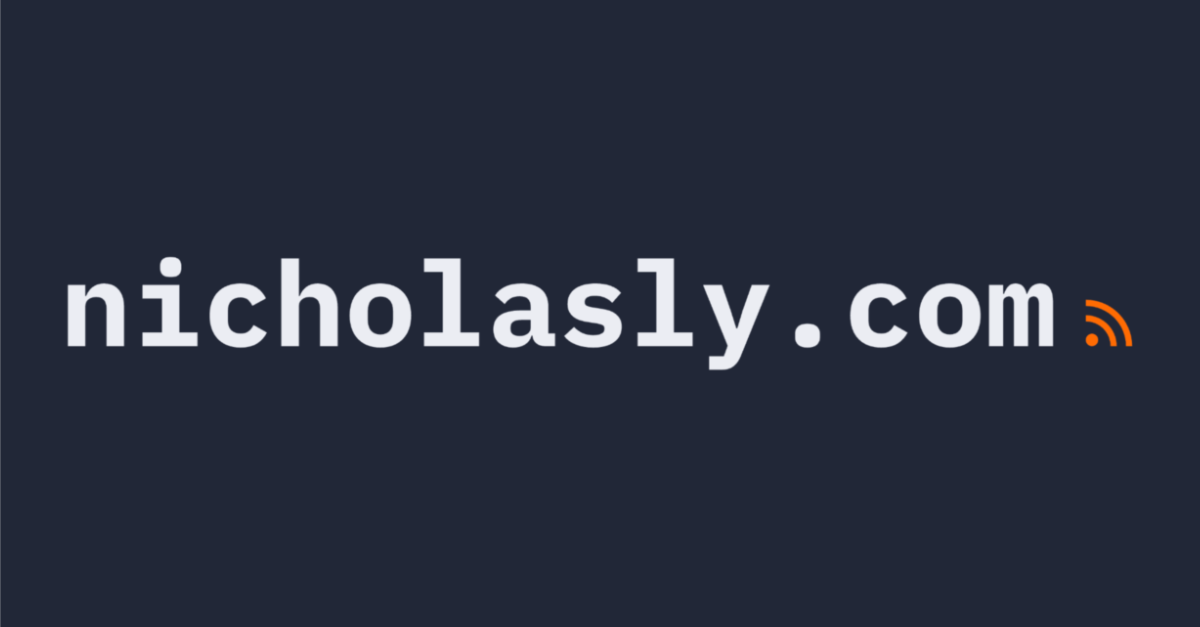
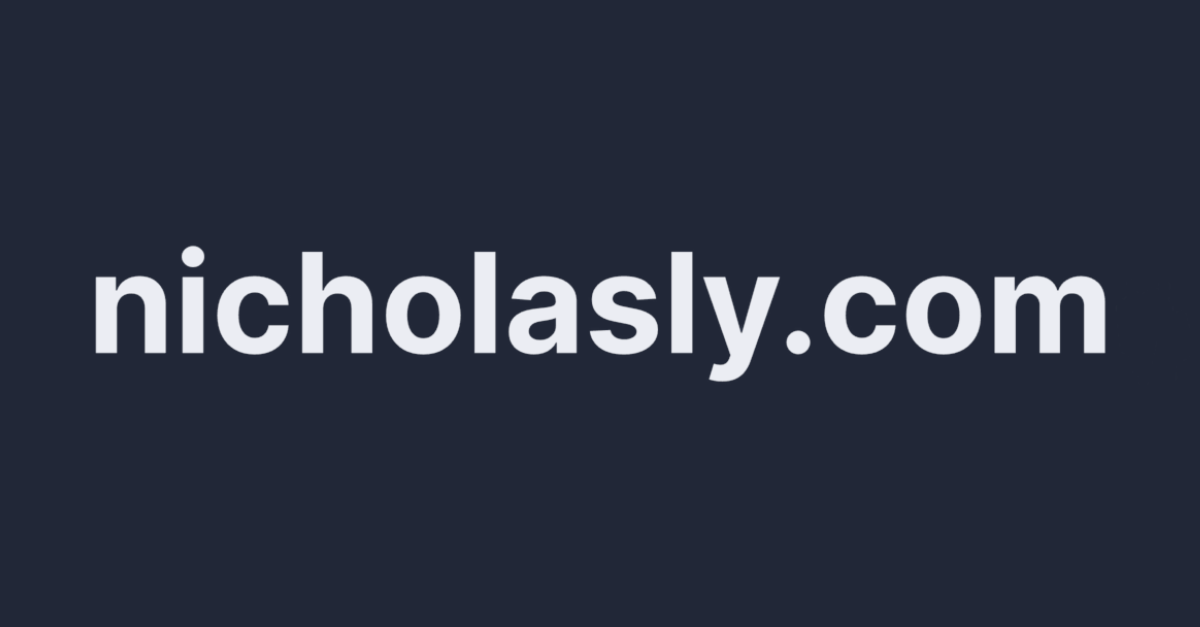
Updated OG image + reduced font import size

Changed region(s): [[0.0308, 0.3939, 0.9558, 0.6061]]

diff --git a/src/config.ts b/src/config.ts
@@ -14,7 +14,7 @@ export const LOCALE = []; // set to [] to use the environment default
 
 export const LOGO_IMAGE = {
   enable: false,
-  svg: true,
+  svg: false,
   width: 216,
   height: 46,
 };

diff --git a/src/content/blog/running-2.md b/src/content/blog/running-2.md
@@ -2,6 +2,7 @@
 title: Running Journal II
 description: Approaching two months of semi-consistent running. Things are starting to look up!
 pubDatetime: 2023-08-11T20:53:00Z
+postSlug: running-2
 draft: false
 featured: false
 tags:

diff --git a/src/content/blog/running-1.md b/src/content/blog/running-1.md
@@ -2,6 +2,7 @@
 title: Running Journal I
 description: I'm currently trying to get into running. It's an extremely humbling sport.
 pubDatetime: 2023-06-20T00:47:00Z
+postSlug: running-1
 draft: false
 featured: true
 tags:
